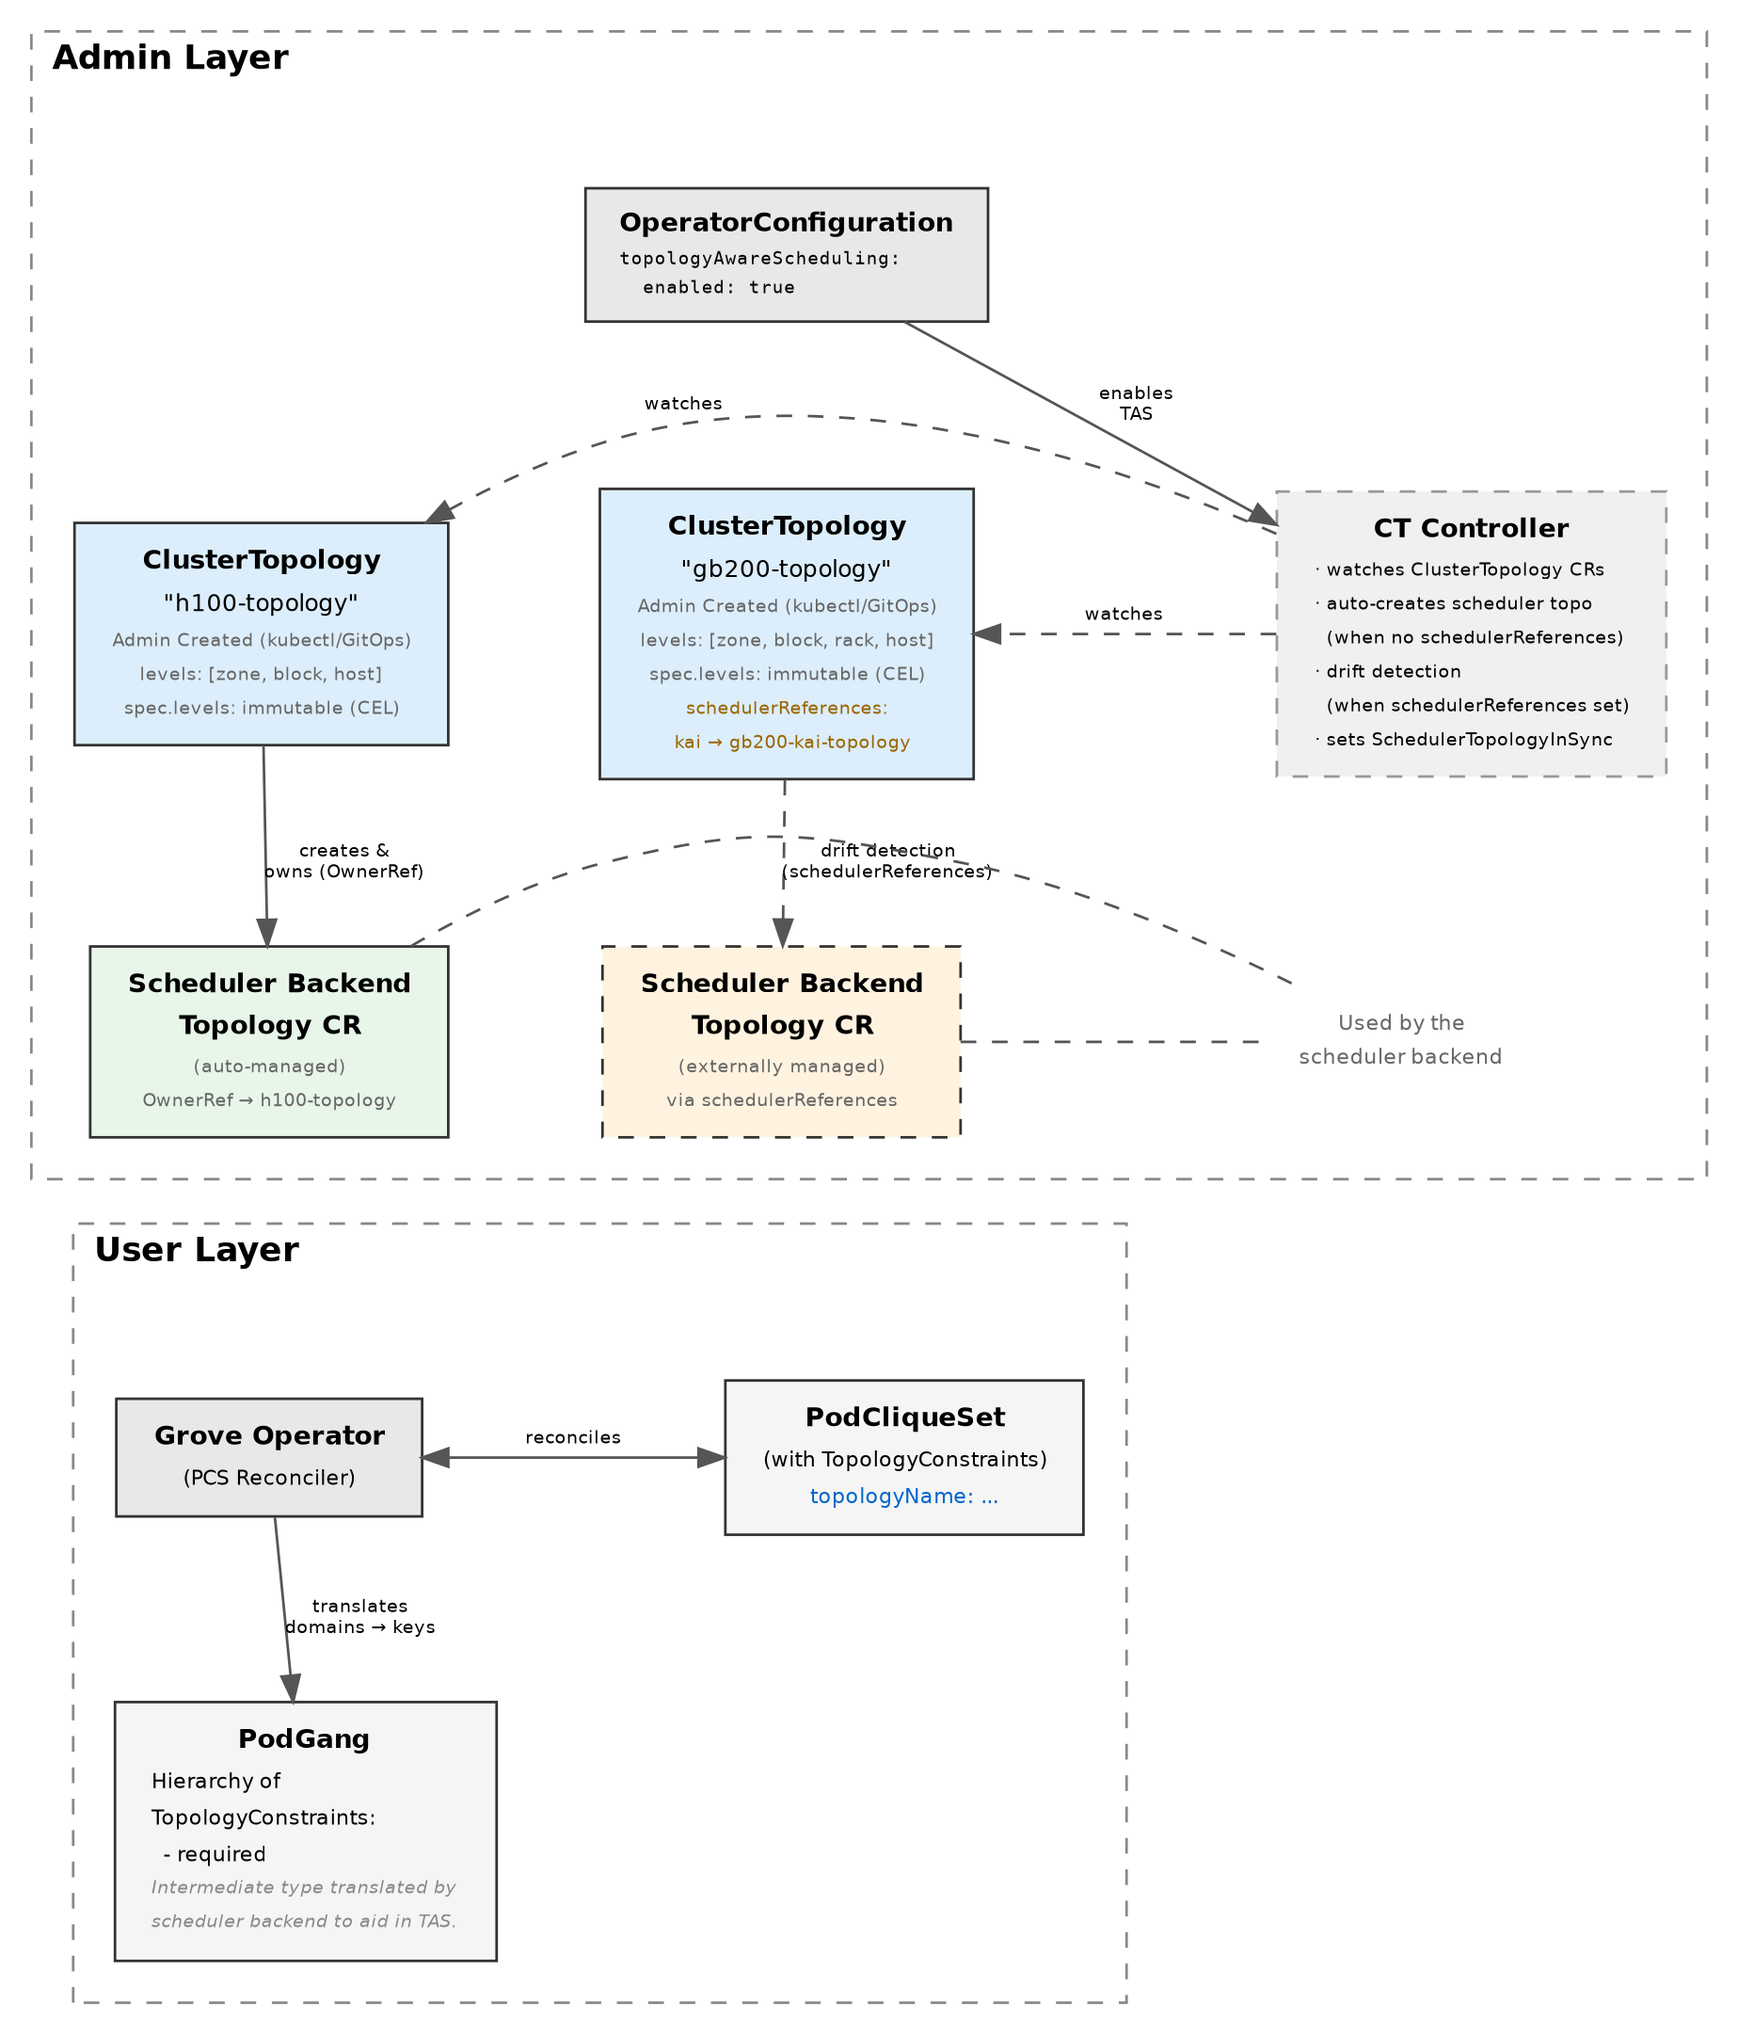
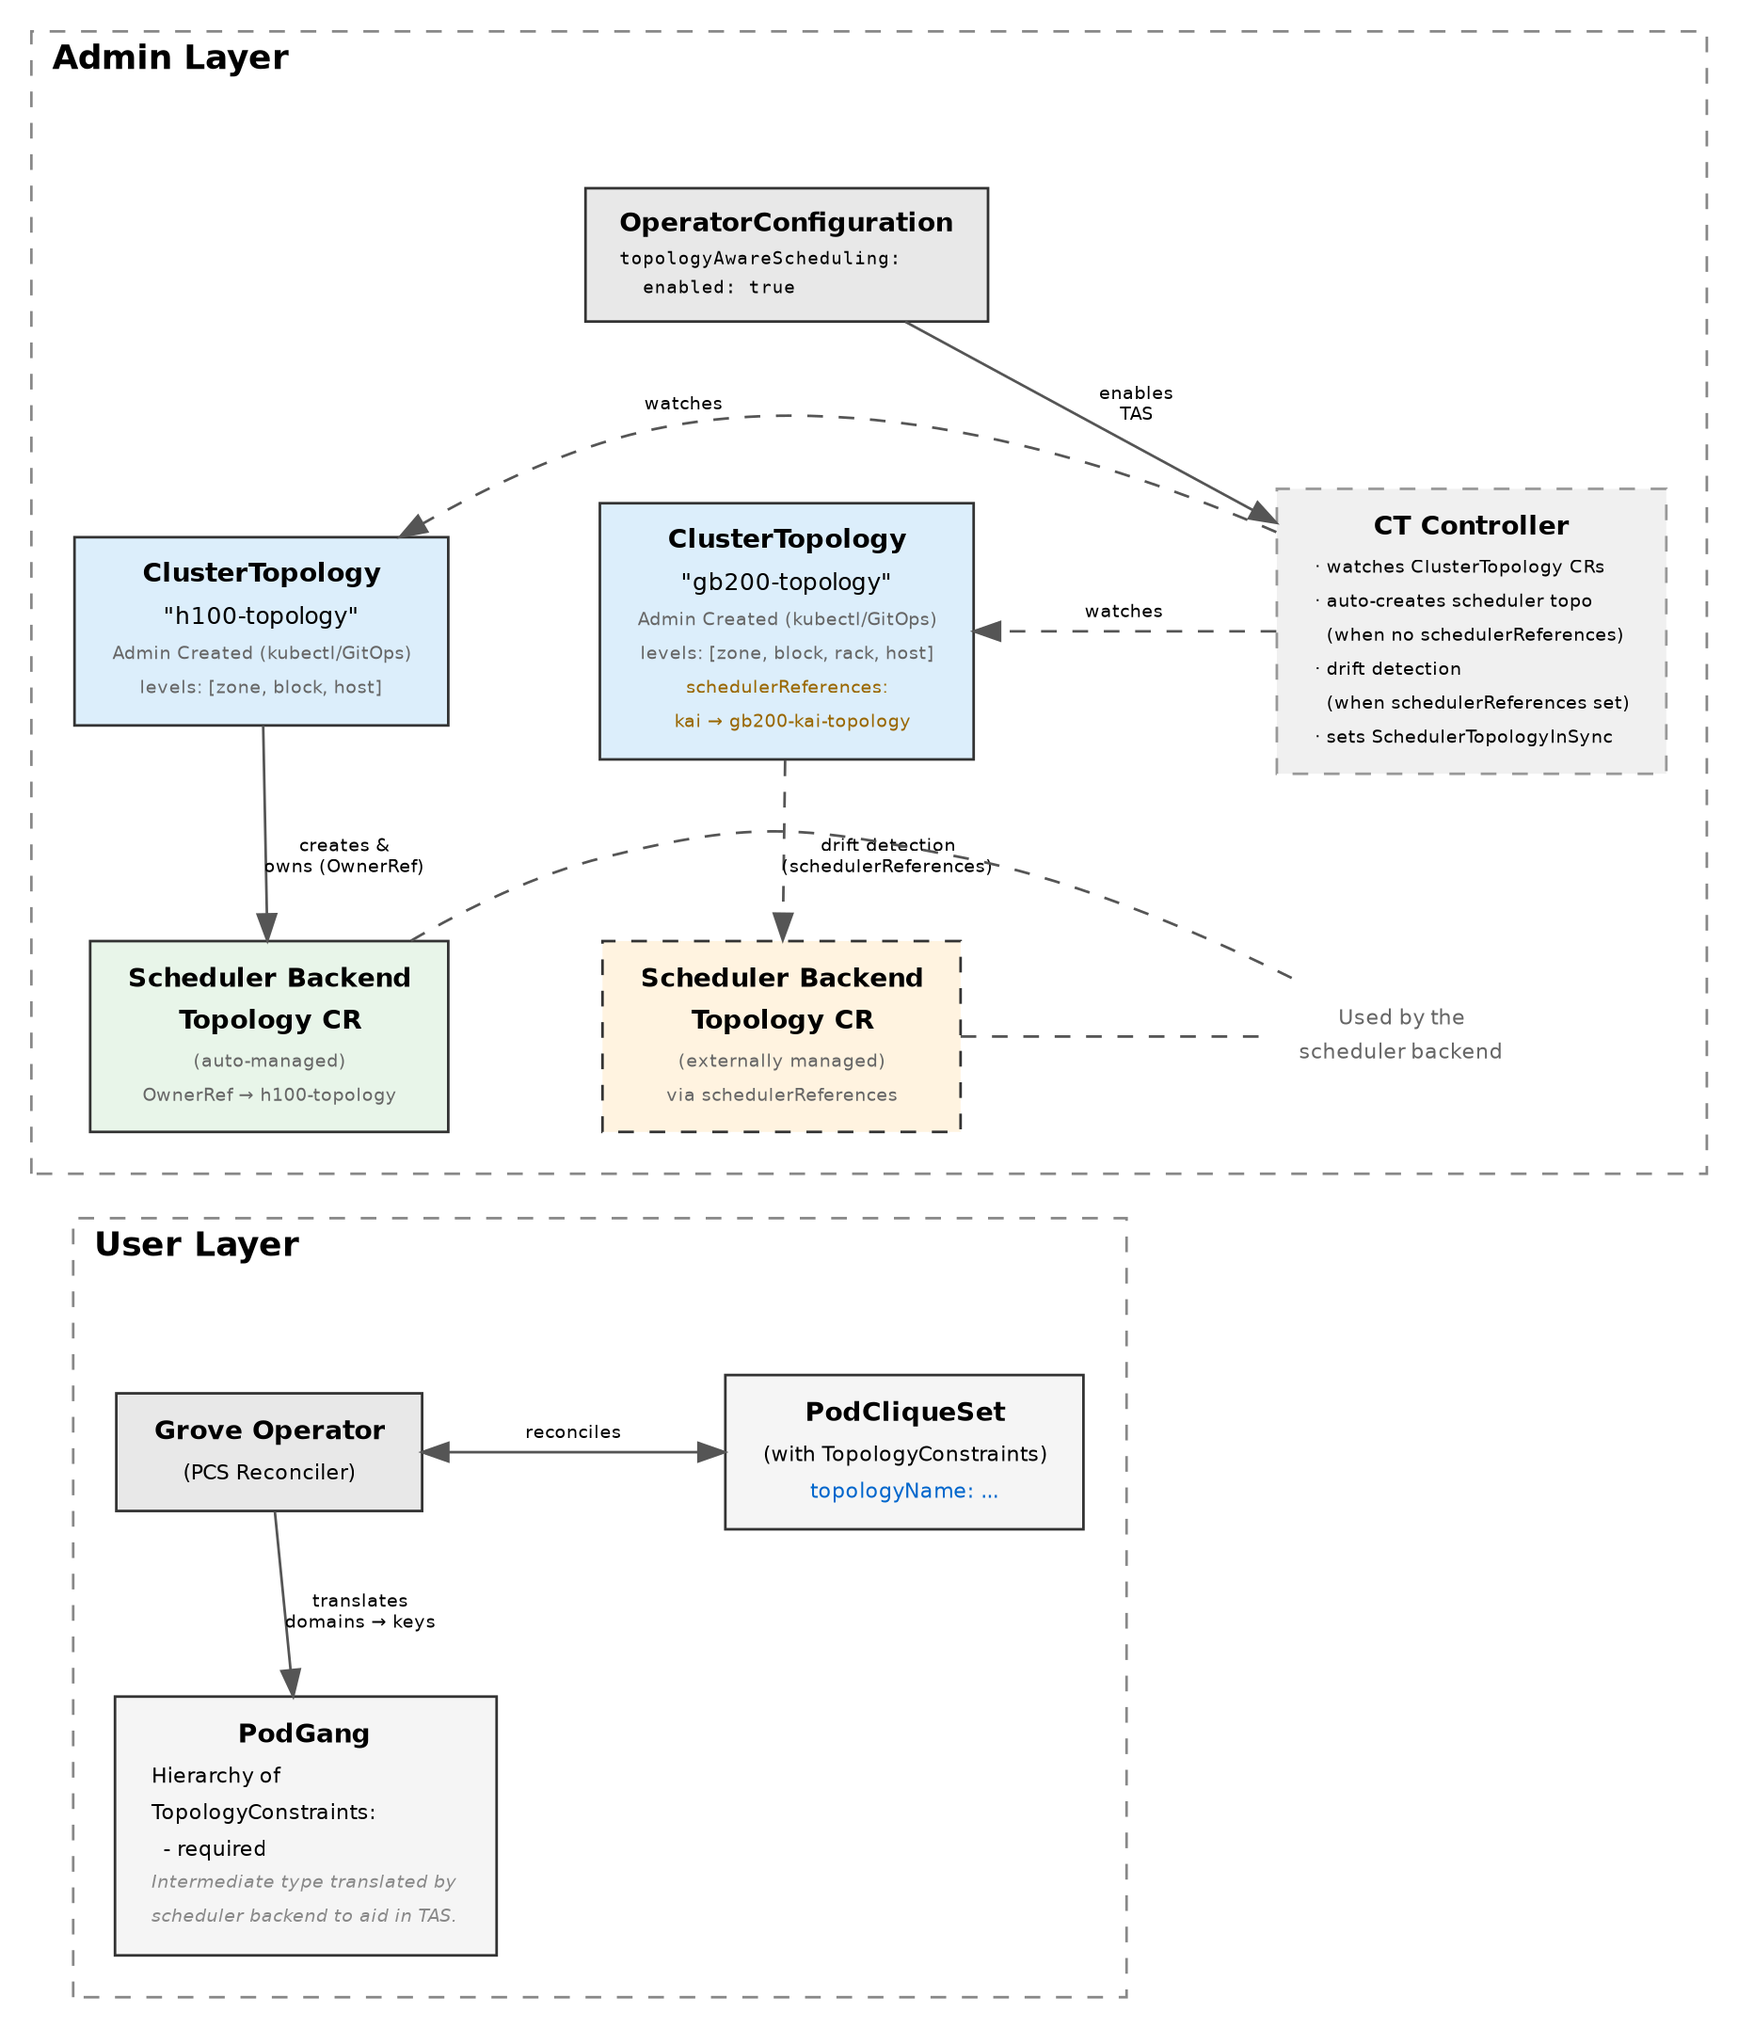
relax ClusterTopology spec.levels to be mutable
The CEL immutability constraint (self == oldSelf) on spec.levels is
unnecessary since the TopologyLevelsUnavailable condition already
handles domain removal gracefully — stripping invalid PodGang
constraints without evicting running pods. This avoids forcing
administrators through delete+recreate workflows when updating
topology levels.

For auto-managed scheduler backend topologies, the CT controller
still deletes and recreates the downstream resource when levels
change (since KAI Topology has its own immutability constraint).

diff --git a/docs/proposals/244-topology-aware-scheduling/README.md b/docs/proposals/244-topology-aware-scheduling/README.md
@@ -19,7 +19,7 @@
     - [Topology Aware Cluster Autoscaling](#topology-aware-cluster-autoscaling)
     - [Workload Portability](#workload-portability)
     - [ClusterTopology Deletion](#clustertopology-deletion)
-    - [Immutable Topology Levels](#immutable-topology-levels)
+    - [Topology Level Updates](#topology-level-updates)
     - [Topology Immutability After Scheduling](#topology-immutability-after-scheduling)
 - [Design Details](#design-details)
   - [Cluster Admin API](#cluster-admin-api)
@@ -249,7 +249,7 @@ CEL validation on the CRD ensures that domain names and node label keys are uniq
 
 #### Topology Configuration Drift
 
-ClusterTopology levels are immutable after creation (enforced by CEL validation), so the levels of a running ClusterTopology cannot drift. To change a topology's levels, the administrator must delete the existing ClusterTopology and create a new one with the updated levels. Existing PodCliqueSets that referenced the old topology may now use topology domains that no longer exist in the new ClusterTopology.
+ClusterTopology levels can be updated in-place by administrators. When levels are changed — for example, removing or renaming a domain — existing PodCliqueSets that reference removed domains are affected.
 
 **Mitigation:**
 
@@ -294,13 +294,14 @@ When an administrator deletes a ClusterTopology resource, any PodCliqueSets that
 * Administrators should migrate or delete PodCliqueSets that reference a topology before deleting the ClusterTopology resource. The kubectl query described in [Monitoring](#monitoring) identifies which PodCliqueSets reference a given topology.
 * The `TopologyLevelsUnavailable` condition on affected PodCliqueSets clearly surfaces which workloads lost their topology configuration.
 
-#### Immutable Topology Levels
+#### Topology Level Updates
 
-A ClusterTopology's `spec.levels` field is immutable after creation, enforced by a CEL validation rule (`self == oldSelf`) on the CRD. This matches the immutability contract of the downstream KAI `Topology` CR and eliminates the risk of topology changes invalidating in-flight scheduling decisions. Metadata changes (labels, annotations) are not affected.
+ClusterTopology `spec.levels` can be updated in-place. When an administrator removes or renames topology domains, PodCliqueSets that use those domains are affected — their topology constraints may reference domains that no longer exist.
 
 **Mitigation**
 
-* To change a topology's levels, administrators must delete the existing ClusterTopology and create a new one. If existing PodCliqueSets referenced domains that no longer exist in the new topology, the PCS reconciler sets the `TopologyLevelsUnavailable` condition and removes invalid constraints from PodGang resources. This delete+recreate approach is consistent with the KAI scheduler's topology update model.
+* The PCS reconciler detects when referenced topology domains are no longer present and sets the `TopologyLevelsUnavailable` condition to `True` with reason `ClusterTopologyLevelsUnavailable`. Invalid topology constraints are removed from the PodGang resources so the scheduler no longer enforces them. Already-running pods are not evicted.
+* For auto-managed scheduler backend topologies, the CT controller deletes and recreates the scheduler backend topology CR when levels change (since downstream resources like KAI `Topology` have immutable levels).
 
 #### Topology Immutability After Scheduling
 
@@ -363,7 +364,7 @@ Validation is enforced at the CRD level on ClusterTopology resources via CEL rul
 
 * Within each ClusterTopology, at least one `TopologyLevel` must be set.
 * Within each ClusterTopology, each `TopologyLevel` must be unique — neither the domain nor the key should be duplicated.
-* `spec.levels` is immutable after creation (`self == oldSelf`).
+* `spec.levels` can be updated in-place. When domains are removed, affected PodCliqueSets are surfaced via the `TopologyLevelsUnavailable` condition.
 
 > NOTE: There is no validation done for `TopologyLevel.Key` (which is a node label) as that can be different across cloud providers and on-prem data centers.
 
@@ -400,11 +401,11 @@ When a ClusterTopology is deleted:
 
 #### Topology Configuration Updates
 
-ClusterTopology resources are managed directly by cluster administrators via kubectl or GitOps. Since `spec.levels` is immutable (enforced by CEL validation), updating a topology's levels requires deleting the old ClusterTopology and creating a new one.
+ClusterTopology resources are managed directly by cluster administrators via kubectl or GitOps.
 
 * New ClusterTopology resources are picked up automatically by the controller.
+* Updated levels trigger re-reconciliation: the CT controller updates (or deletes and recreates) auto-managed scheduler backend topologies, and the PCS reconciler evaluates whether existing PodCliqueSets still have valid topology domains.
 * Deleted ClusterTopology resources trigger `TopologyLevelsUnavailable` conditions on any PodCliqueSets that still reference them.
-* Metadata changes (labels, annotations) can be updated in-place without recreation.
 
 ### ClusterTopology custom resource
 
@@ -436,7 +437,6 @@ type ClusterTopologySpec struct {
     // The order in this list defines the hierarchy (index 0 = broadest level).
     // +kubebuilder:validation:MinItems=1
     // +kubebuilder:validation:MaxItems=16
-    // +kubebuilder:validation:XValidation:rule="self == oldSelf",message="field is immutable"
     // +kubebuilder:validation:XValidation:rule="self.all(x, self.filter(y, y.domain == x.domain).size() == 1)",message="domain must be unique across all levels"
     // +kubebuilder:validation:XValidation:rule="self.all(x, self.filter(y, y.key == x.key).size() == 1)",message="key must be unique across all levels"
     Levels []TopologyLevel `json:"levels"`
@@ -563,7 +563,7 @@ Administrators create ClusterTopology resources directly via kubectl or GitOps. 
 
 **Updates**
 
-A ClusterTopology's `spec.levels` field is immutable after creation, enforced by a CEL validation rule (`self == oldSelf`). This matches the immutability contract of the downstream KAI `Topology` CR. Metadata changes (labels, annotations) are not affected. To change a topology's levels, administrators must delete and recreate the ClusterTopology resource.
+A ClusterTopology's `spec.levels` can be updated in-place by administrators. When levels change, the CT controller re-reconciles the scheduler backend topology (deleting and recreating it if the downstream resource has immutable levels, such as KAI `Topology`). The PCS reconciler evaluates affected PodCliqueSets and sets the `TopologyLevelsUnavailable` condition if any referenced domains were removed. Metadata changes (labels, annotations) are also supported.
 
 **Deletion**
 
@@ -584,13 +584,13 @@ sequenceDiagram
         Ctrl->>API: Reconcile: create scheduler<br/>backend topology (if no schedulerReferences)
     end
 
-    Note over Admin, PCSRec: Update ClusterTopology Levels (immutable)
+    Note over Admin, PCSRec: Update ClusterTopology Levels
 
-    Note right of API: Direct updates to spec.levels<br/>are rejected by CEL validation
     rect rgb(230, 245, 230)
-        Admin->>API: kubectl delete old CT
-        Admin->>API: kubectl apply new CT with updated levels
-        Ctrl->>API: Reconcile: create scheduler<br/>backend topology for new CT
+        Admin->>API: kubectl apply CT with updated levels
+        Ctrl->>API: Reconcile: update scheduler<br/>backend topology (delete+recreate if immutable)
+        PCSRec->>API: Reconcile affected PCS
+        PCSRec->>API: Set TopologyLevelsUnavailable<br/>if domains removed
     end
 
     Note over Admin, PCSRec: Delete ClusterTopology
@@ -608,7 +608,7 @@ sequenceDiagram
 
 The operator manages the relationship between each ClusterTopology and its corresponding scheduler backend topology resource (e.g., KAI `Topology` CR). The behavior depends on whether the ClusterTopology has entries in its `schedulerReferences` field:
 
-*Auto-managed (`schedulerReferences` empty):* When a ClusterTopology's `schedulerReferences` is empty, the operator automatically creates and manages the scheduler backend topology CR with an `OwnerReference` to the ClusterTopology. For the KAI scheduler, this means creating a `Topology` CR with the same name as the ClusterTopology. Since both the ClusterTopology and KAI Topology have immutable levels, the operator only needs to handle creation and deletion — no update path is needed. When the ClusterTopology is deleted, the scheduler backend topology is cascade-deleted via the `OwnerReference`.
+*Auto-managed (`schedulerReferences` empty):* When a ClusterTopology's `schedulerReferences` is empty, the operator automatically creates and manages the scheduler backend topology CR with an `OwnerReference` to the ClusterTopology. For the KAI scheduler, this means creating a `Topology` CR with the same name as the ClusterTopology. When the ClusterTopology's levels are updated, the operator deletes and recreates the auto-managed scheduler backend topology CR (since downstream resources like KAI `Topology` have immutable levels). When the ClusterTopology is deleted, the scheduler backend topology is cascade-deleted via the `OwnerReference`.
 
 *Referenced (`schedulerReferences` populated):* When a ClusterTopology's `schedulerReferences` contains entries for a scheduler backend, the named scheduler backend topology resource is assumed to be externally managed. The operator does not create, update, or delete the referenced topology. Instead, it compares the referenced topology's levels against the ClusterTopology's levels and reports per-backend sync state in `schedulerTopologyStatuses`. The aggregate `SchedulerTopologyInSync` condition reflects whether all backends are in sync.
 
@@ -989,7 +989,7 @@ Condition States:
 | `Unknown` | `ClusterTopologyNotFound`           | When `ClusterTopology` CR is no longer existing              |
 | `Unknown` | `TopologyAwareSchedulingDisabled`   | When TAS has been disabled cluster-wide while the PCS still has topology constraints |
 | `Unknown` | `TopologyNameMissing`        | When PCS has topology constraints but no `topologyName` (upgrade from single-topology design) |
-| `True`    | `ClusterTopologyLevelsUnavailable`  | When one or more topology levels used by a deployed `PodCliqueSet` are no longer present in `ClusterTopology` (e.g., the ClusterTopology was deleted and recreated with different levels that no longer include the domains used by this PCS). The reconciler removes the invalid topology constraints from the PodGang resources so the scheduler no longer enforces them. Already-running pods are not evicted — they continue running at their current placement. |
+| `True`    | `ClusterTopologyLevelsUnavailable`  | When one or more topology levels used by a deployed `PodCliqueSet` are no longer present in `ClusterTopology` (e.g., the ClusterTopology levels were updated and no longer include the domains used by this PCS). The reconciler removes the invalid topology constraints from the PodGang resources so the scheduler no longer enforces them. Already-running pods are not evicted — they continue running at their current placement. |
 | `False`   | `AllClusterTopologyLevelsAvailable` | All topology levels used by a deployed `PodCliqueSet` are amongst the supported topology levels as defined in `ClusterTopology` |
 
 ### Dependencies
@@ -1041,6 +1041,6 @@ This model provides a single source of truth (OperatorConfiguration) and a consi
 * Topology management is coupled to the operator lifecycle — adding or changing a topology requires redeploying the operator.
 * Administrators cannot use standard Kubernetes workflows (kubectl, GitOps, Argo CD) to manage topologies.
 * Different teams cannot independently manage their own topologies without coordinating operator restarts.
-* The operator must handle complex delete+recreate workflows when topology levels change, since levels are immutable.
+* The operator must propagate level changes to downstream scheduler backend topologies (which may have their own immutability constraints).
 
 With the admin-created model chosen in this proposal, ClusterTopology resources are standard Kubernetes resources that can be managed with familiar tooling. The Grove controller watches and reconciles them without needing to own their lifecycle. The trade-off is that there is no single configuration file that declares all topologies — administrators must manage ClusterTopology resources alongside their other cluster resources.
